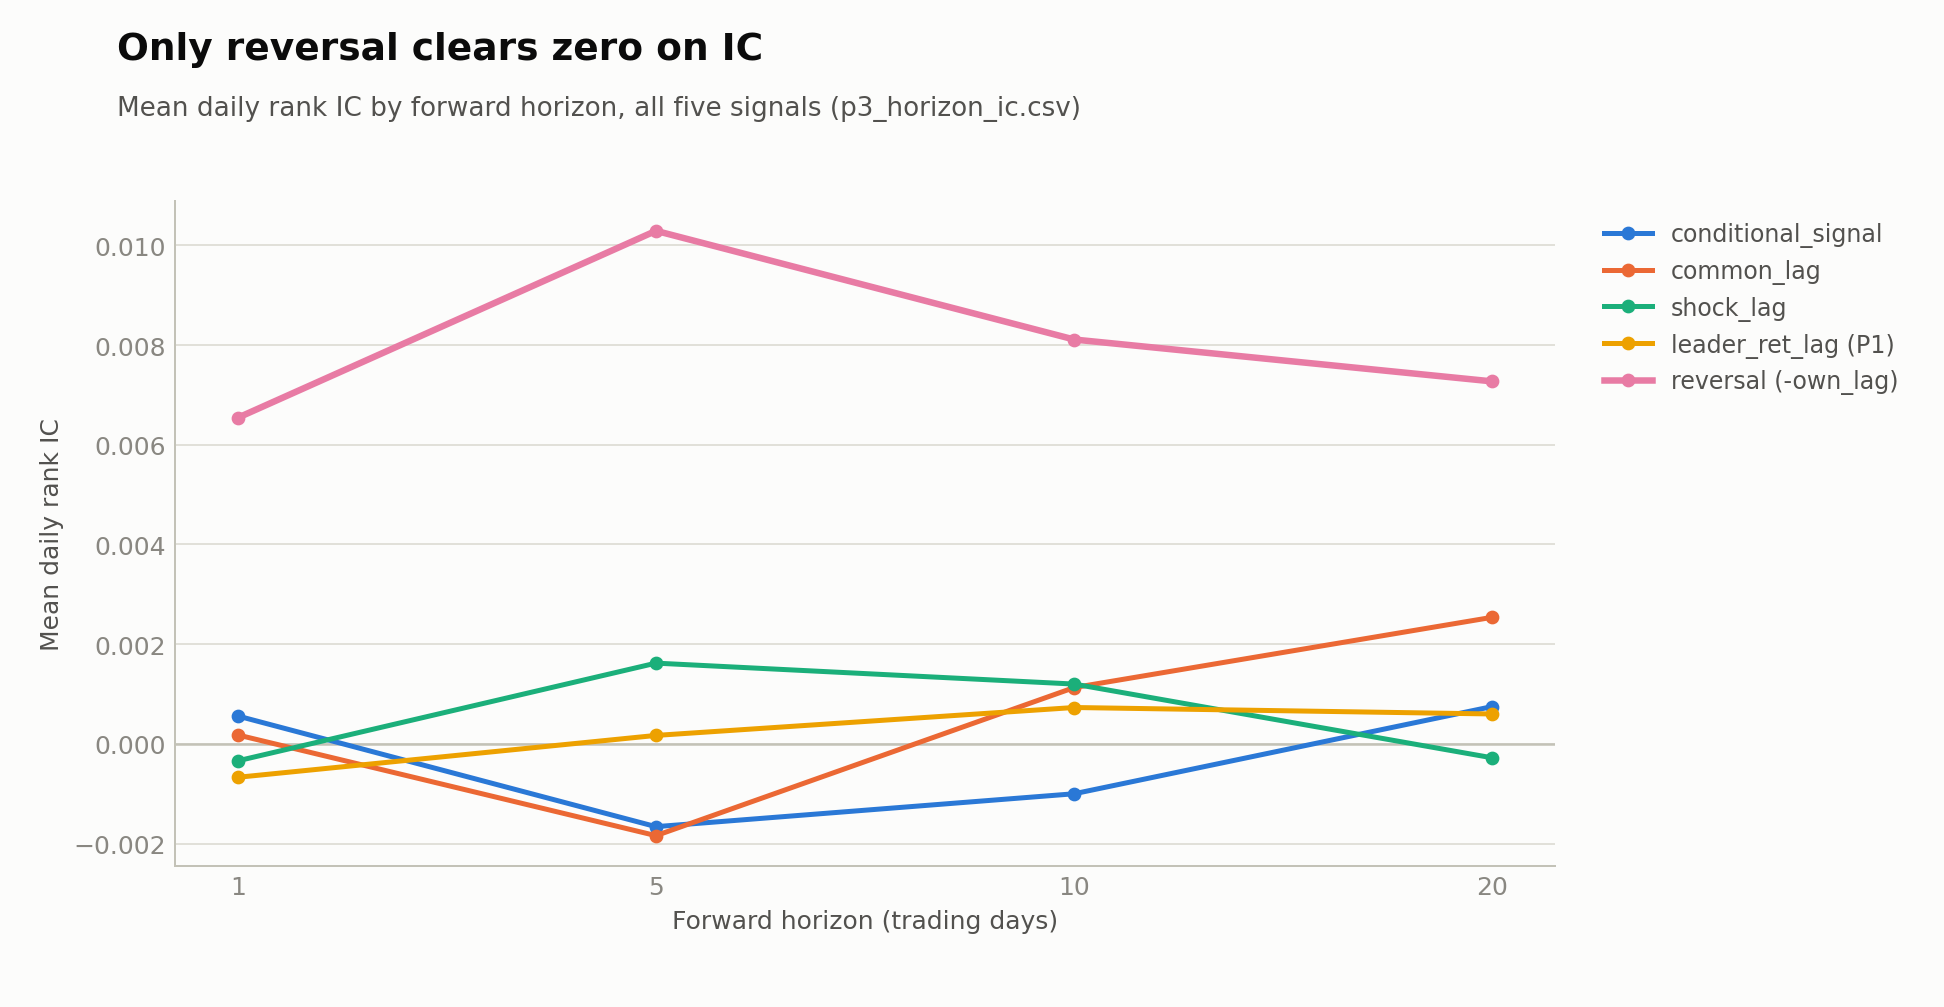
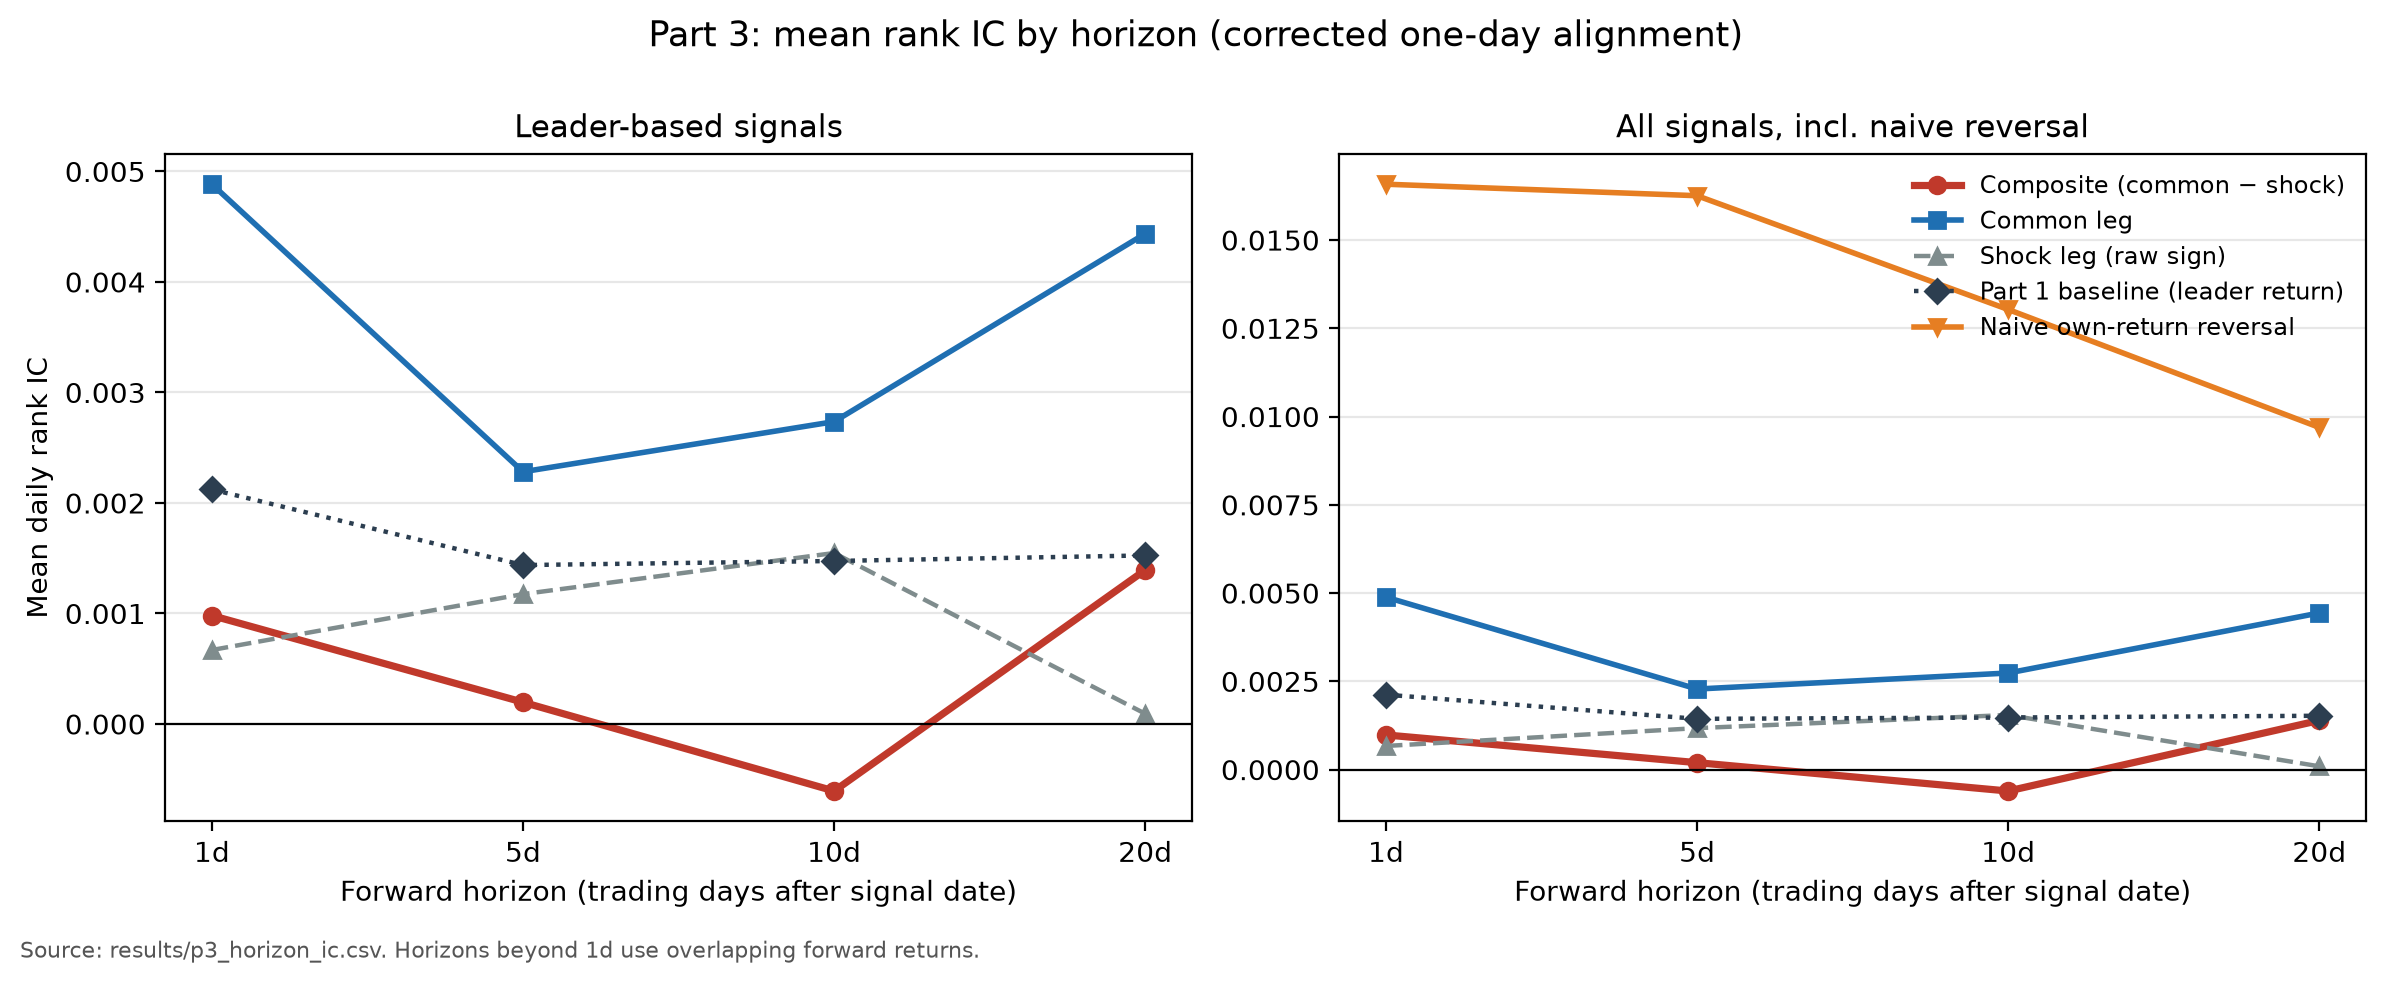
Add Part 3 figure script; redraw IC-by-horizon after lag fix

diff --git a/Project_2_Conditional_Lead_Lag_Alpha/scripts/make_p3_figures.py b/Project_2_Conditional_Lead_Lag_Alpha/scripts/make_p3_figures.py
@@ -1,0 +1,76 @@
+"""Redraw Part 3 report figures from the saved results CSVs (no data pull needed).
+
+    python scripts/make_p3_figures.py
+
+Reads results/p3_horizon_ic.csv and writes figures/p3_ic_by_horizon.png.
+Rerun after scripts/run_part3.py whenever the Part 3 results change.
+"""
+from pathlib import Path
+
+import matplotlib
+
+matplotlib.use("Agg")
+import matplotlib.pyplot as plt
+import pandas as pd
+
+ROOT = Path(__file__).resolve().parents[1]
+RESULTS = ROOT / "results"
+FIGURES = ROOT / "figures"
+
+# Short legend labels keyed by the signal names run_part3.py writes.
+LABELS = {
+    "conditional_signal (common - shock)": "Composite (common − shock)",
+    "common_lag (continuation leg)": "Common leg",
+    "shock_lag (reversion leg, raw sign)": "Shock leg (raw sign)",
+    "leader_ret_lag (part 1 baseline, unconditional)": "Part 1 baseline (leader return)",
+    "reversal_signal (naive, -own_lag)": "Naive own-return reversal",
+}
+STYLE = {
+    "Composite (common − shock)": dict(color="#c0392b", lw=2.6, marker="o"),
+    "Common leg": dict(color="#1f6fb2", lw=2.0, marker="s"),
+    "Shock leg (raw sign)": dict(color="#7f8c8d", lw=1.6, marker="^", ls="--"),
+    "Part 1 baseline (leader return)": dict(color="#2c3e50", lw=1.6, marker="D", ls=":"),
+    "Naive own-return reversal": dict(color="#e67e22", lw=2.0, marker="v"),
+}
+
+
+def ic_by_horizon() -> Path:
+    ic = pd.read_csv(RESULTS / "p3_horizon_ic.csv")
+    ic["label"] = ic["signal"].map(LABELS).fillna(ic["signal"])
+    horizons = sorted(ic["horizon"].unique())
+    xpos = {h: i for i, h in enumerate(horizons)}
+
+    fig, axes = plt.subplots(1, 2, figsize=(12, 4.6), sharex=True)
+    panels = [
+        (axes[0], [l for l in STYLE if l != "Naive own-return reversal"],
+         "Leader-based signals"),
+        (axes[1], list(STYLE), "All signals, incl. naive reversal"),
+    ]
+    for ax, labels, title in panels:
+        for label in labels:
+            d = ic[ic["label"] == label].sort_values("horizon")
+            if d.empty:
+                continue
+            ax.plot(d["horizon"].map(xpos), d["mean_ic"], label=label, **STYLE[label])
+        ax.axhline(0, color="black", lw=0.8)
+        ax.set_xticks(range(len(horizons)))
+        ax.set_xticklabels([f"{h}d" for h in horizons])
+        ax.set_xlabel("Forward horizon (trading days after signal date)")
+        ax.set_title(title, fontsize=11)
+        ax.grid(axis="y", alpha=0.3)
+    axes[0].set_ylabel("Mean daily rank IC")
+    axes[1].legend(fontsize=8.5, frameon=False, loc="upper right")
+    fig.suptitle("Part 3: mean rank IC by horizon (corrected one-day alignment)",
+                 fontsize=12.5, y=1.0)
+    fig.text(0.01, -0.02, "Source: results/p3_horizon_ic.csv. Horizons beyond 1d use "
+             "overlapping forward returns.", fontsize=8, color="#555")
+    fig.tight_layout()
+    FIGURES.mkdir(exist_ok=True)
+    out = FIGURES / "p3_ic_by_horizon.png"
+    fig.savefig(out, dpi=200, bbox_inches="tight")
+    plt.close(fig)
+    return out
+
+
+if __name__ == "__main__":
+    print("wrote", ic_by_horizon())
